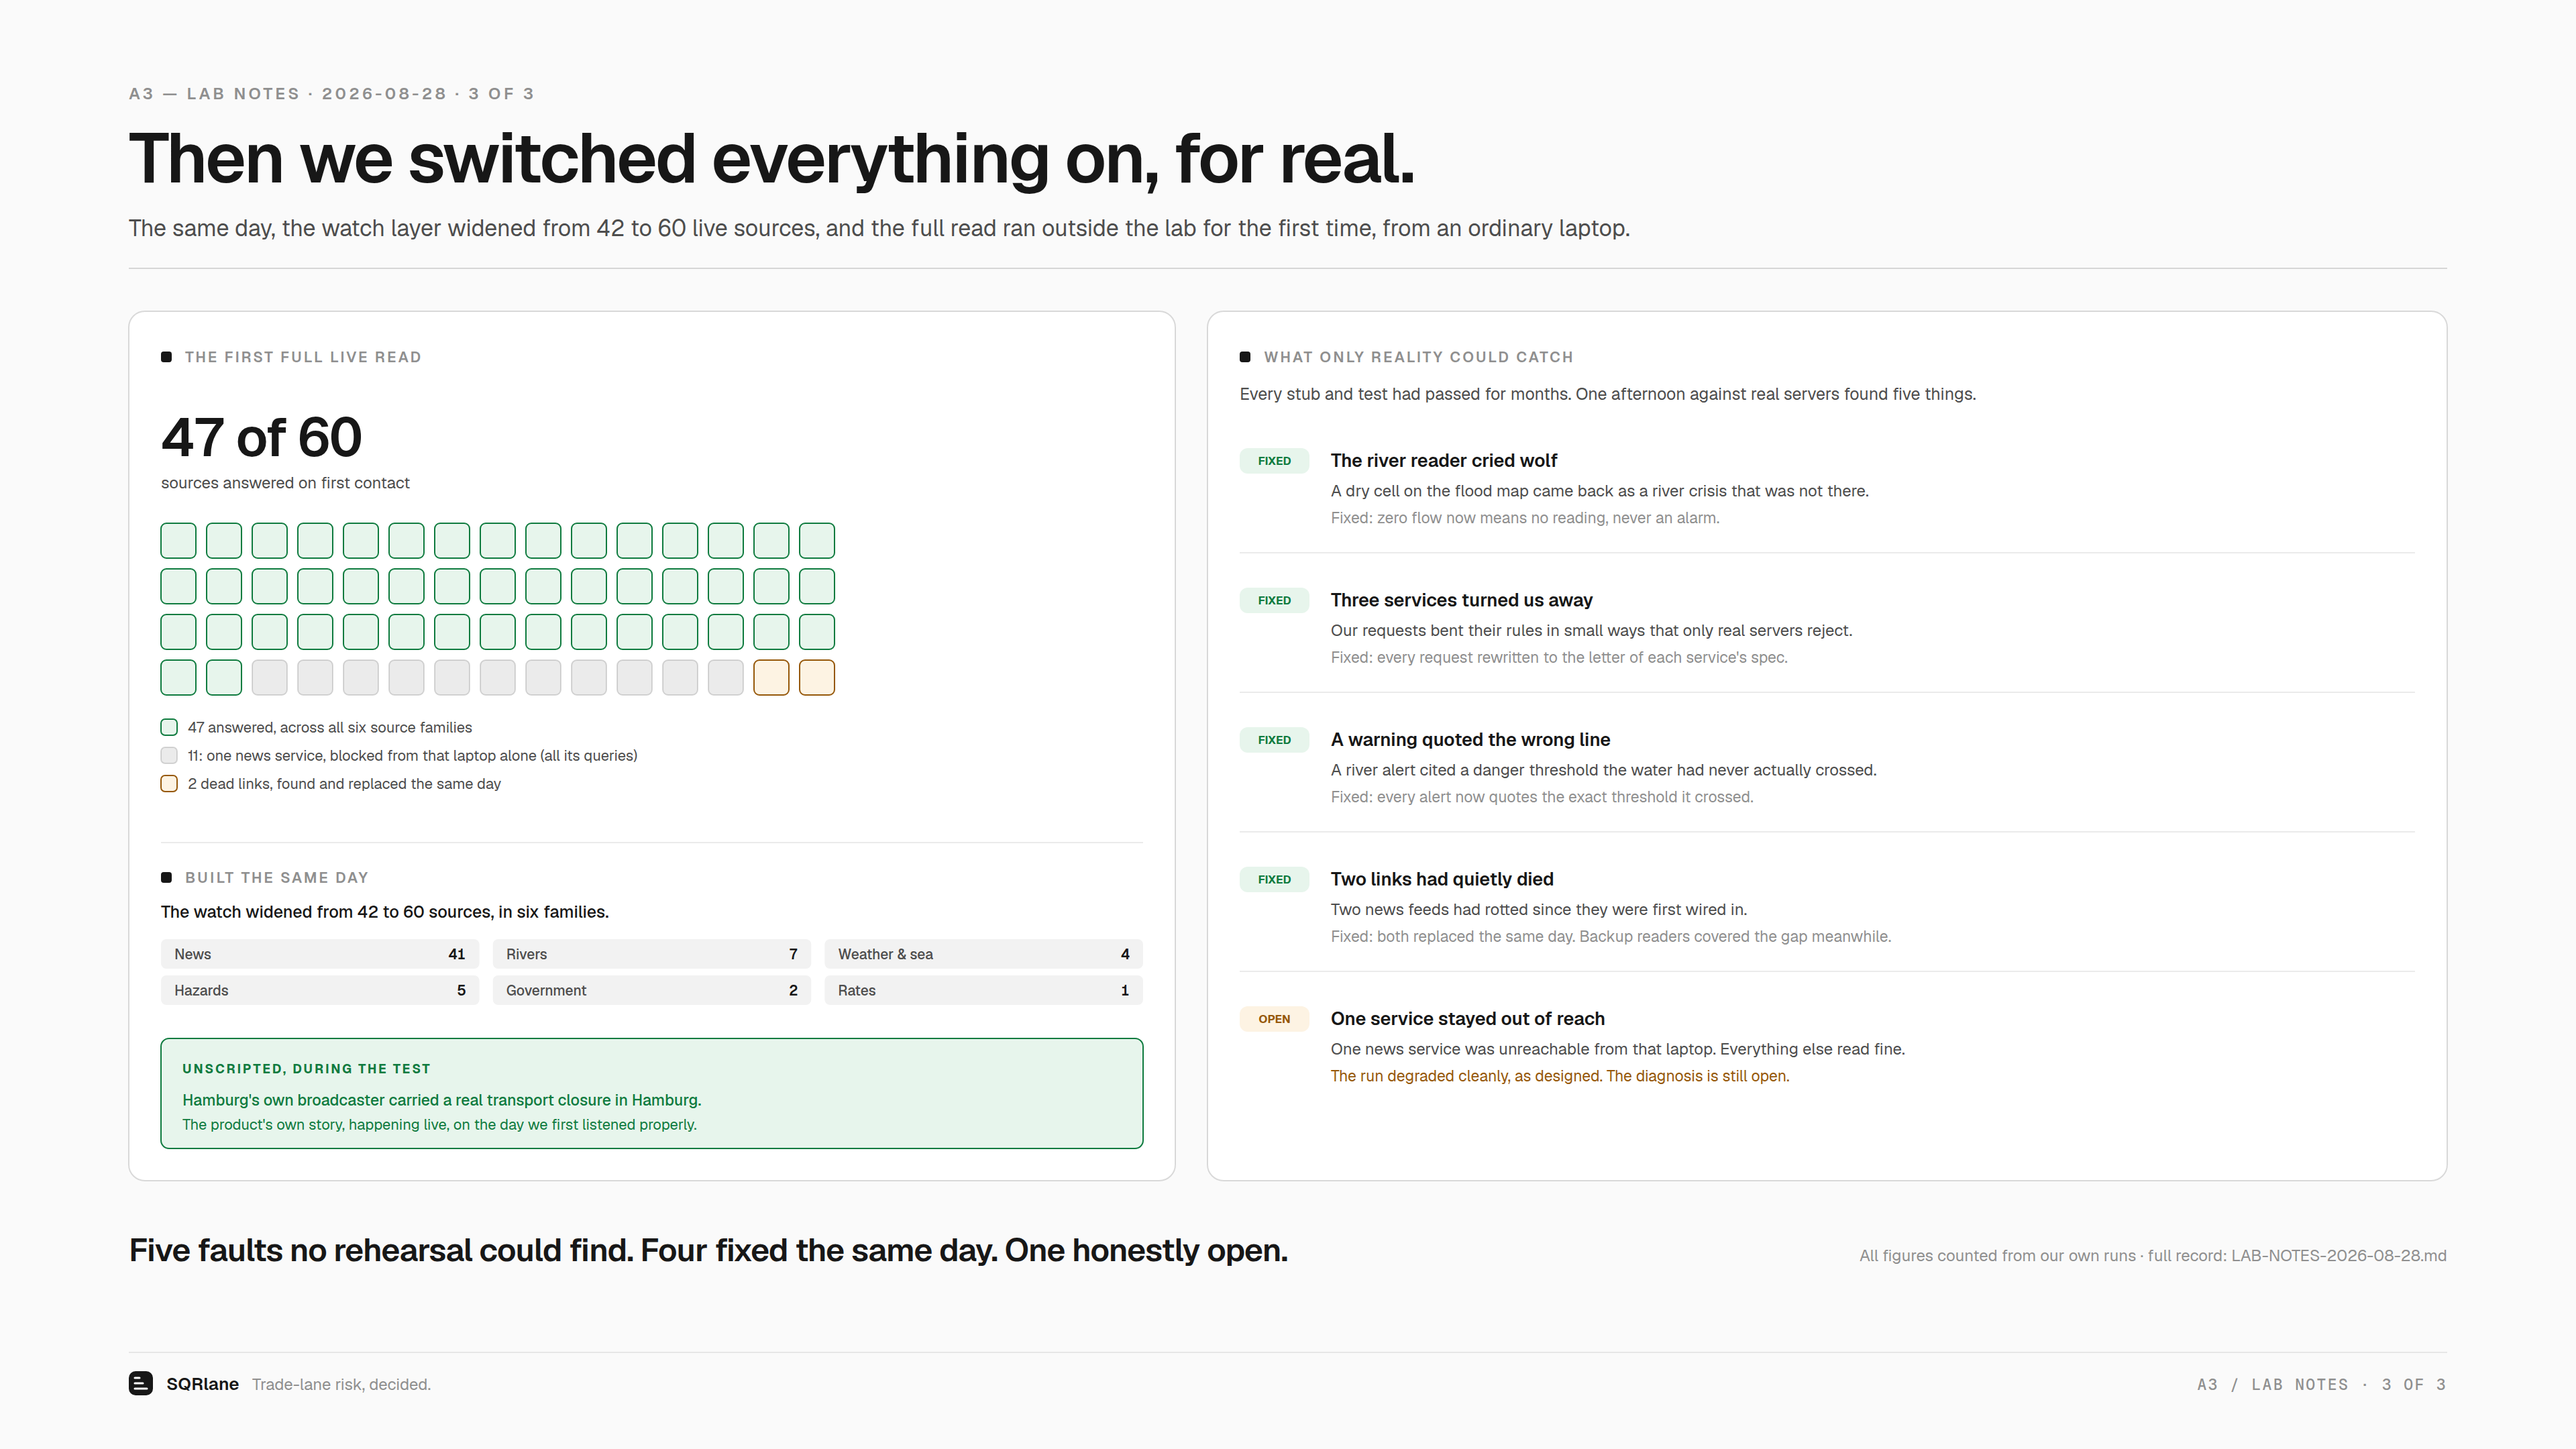
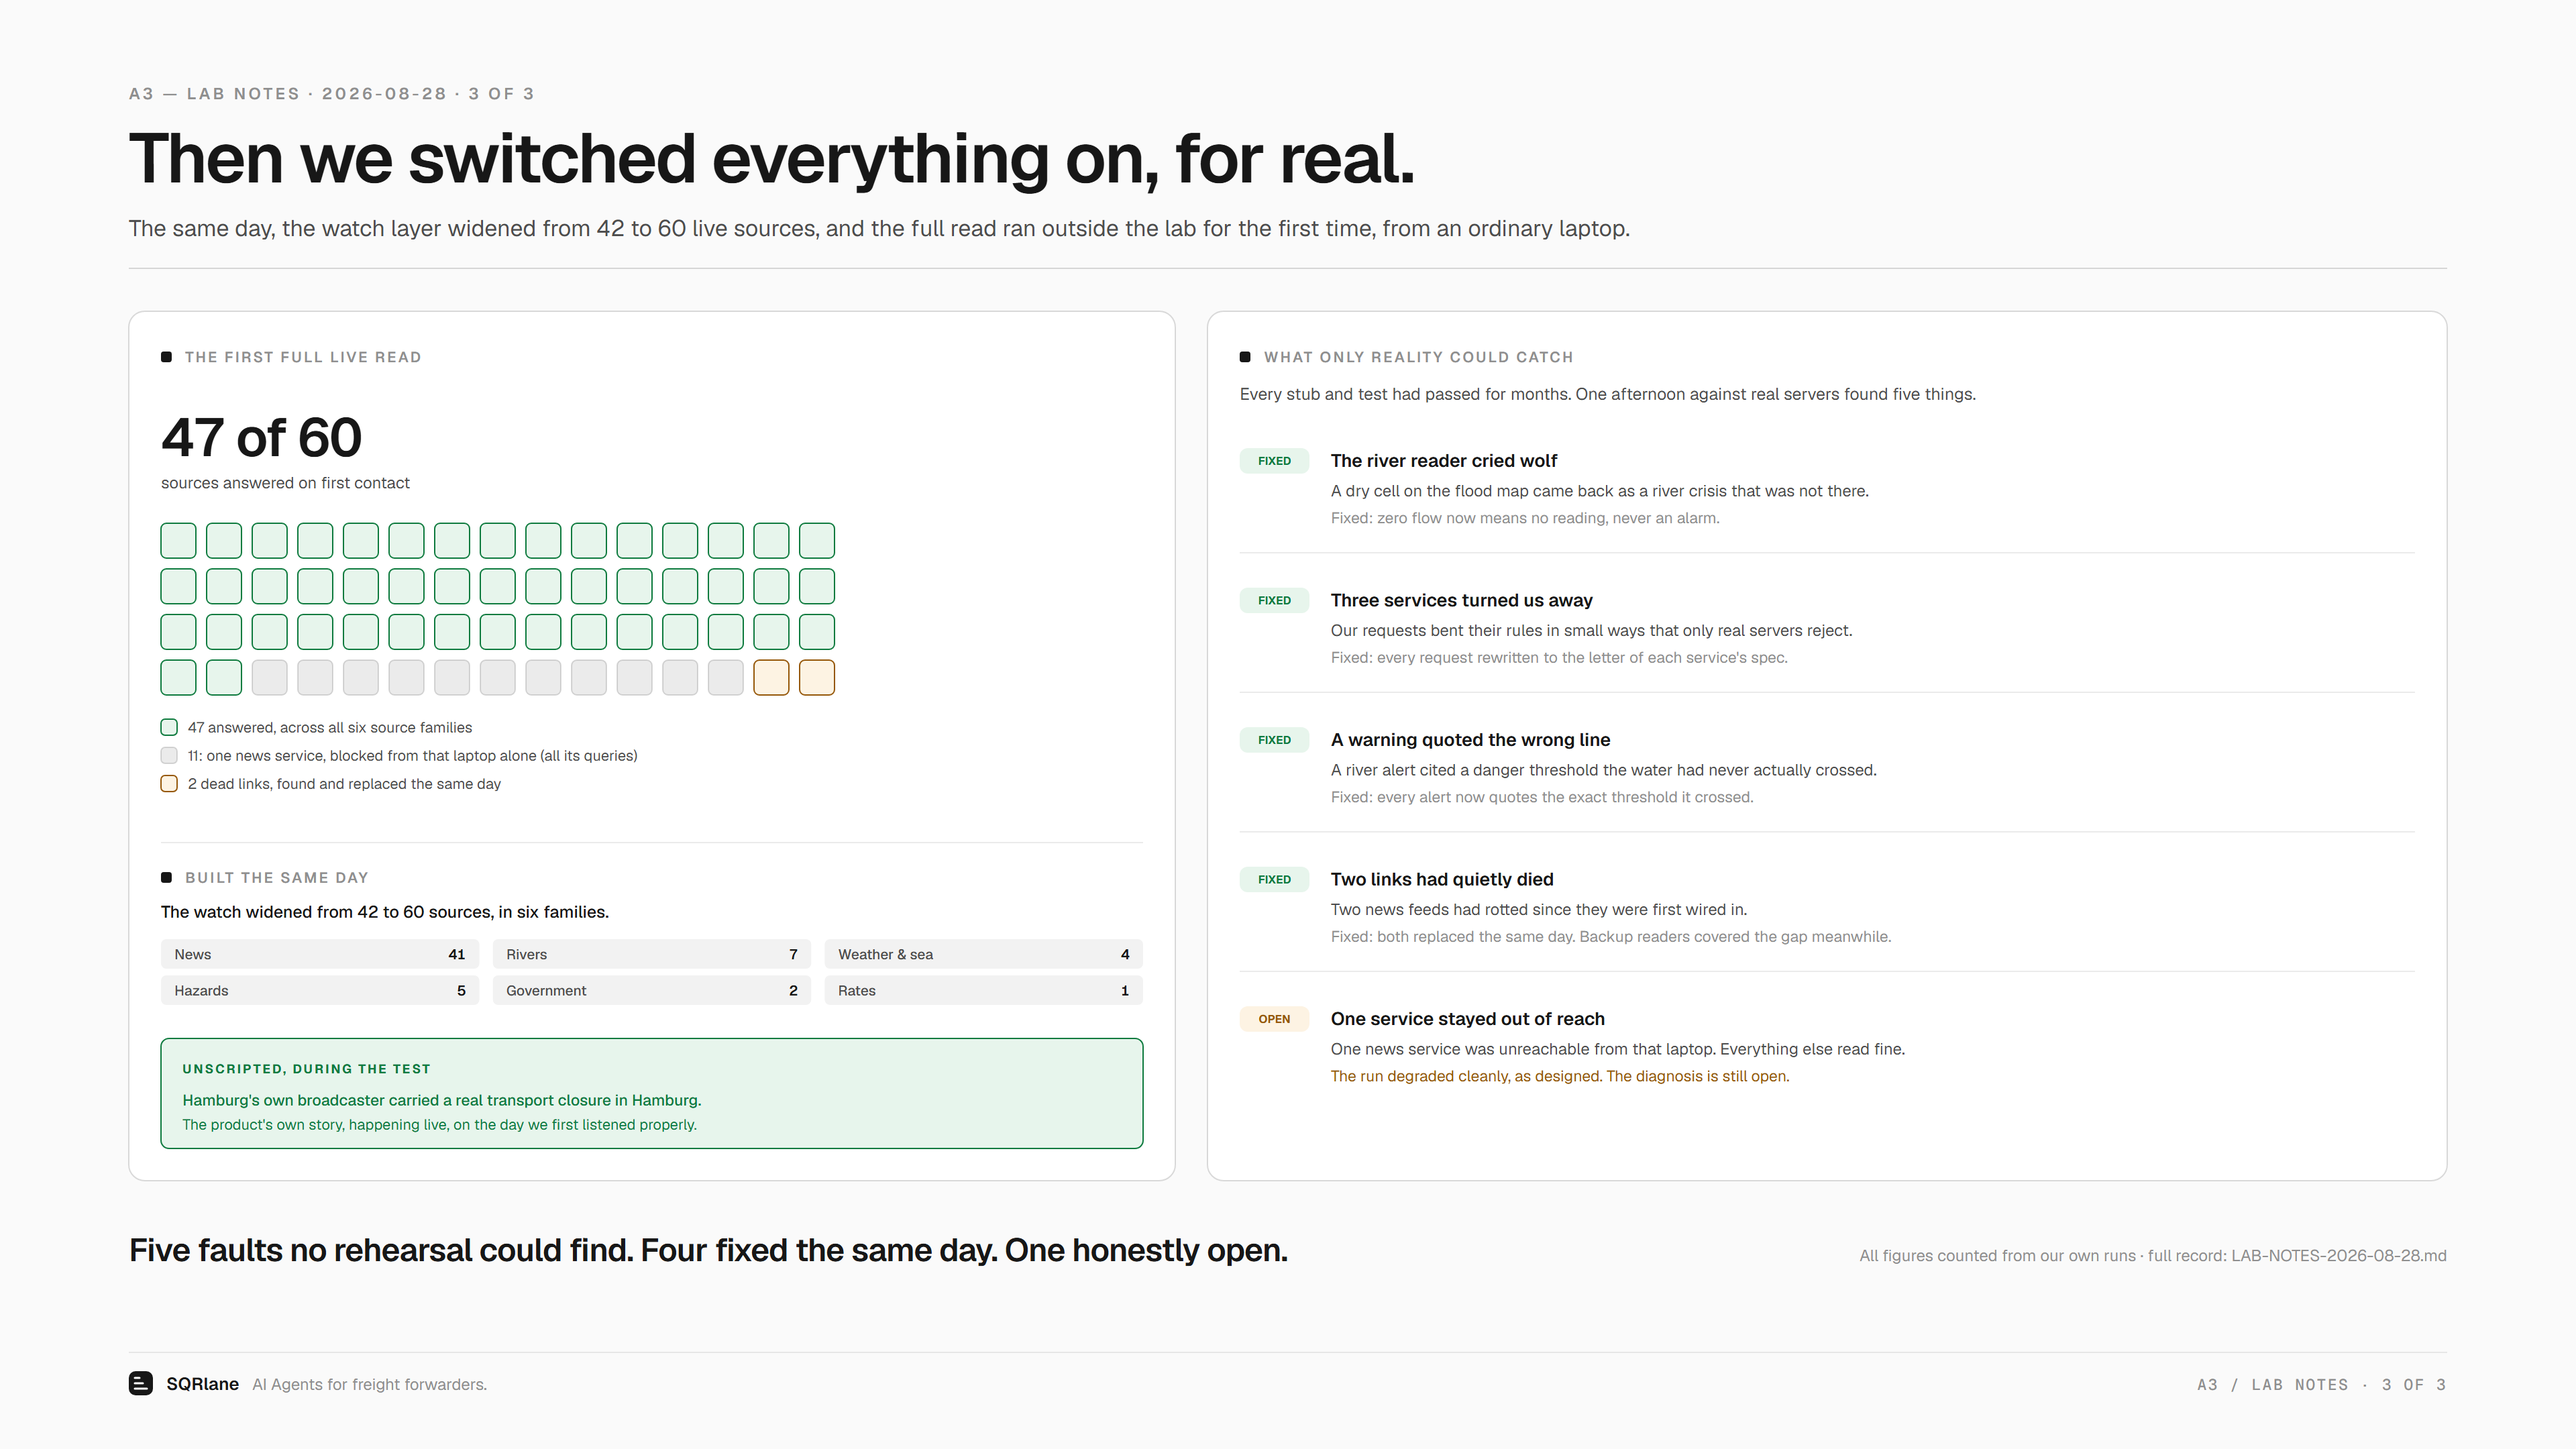
Rebuild the deck on the new tagline, and stop render.py failing silently
The previous commit said deck/ was left alone. That was wrong - deckkit.py
and CONTENT.md were in it, so the deck's source said "forwarders" while its
ten built SVGs still said "enterprises". This finishes the job: all ten SVGs
rebuilt from the build scripts, all ten PNG previews re-rendered, footers
read as they should on every slide.

Rendering them turned up why the previews could drift in the first place.
render.py passed --screenshot a relative path and then checked only that the
output existed. Chrome exits 0 when it cannot write there, so with a preview
already on disk the run looked clean: PIL re-cropped and re-saved the old
image, the mtime moved, and git showed a modified file with unchanged
pixels. Every render was a no-op that reported success.

That had been happening for a while. The previews committed before this
change were showing "Trade-lane risk, decided." - a tagline the deck stopped
using around ten commits ago, two taglines back. Nobody could have seen it:
the tool said it had rendered.

Two fixes, both platform-neutral:

- --screenshot now gets an absolute path, which is what Chrome actually
  needs;
- the guard tests that Chrome wrote the file ON THIS RUN, by mtime.
  os.path.exists cannot catch this and never could. Verified by stubbing in
  a "chrome" that exits 0 writing nothing: the guard fires and leaves the
  stale preview untouched instead of laundering it into a fresh-looking
  commit.
[…]

Changed region(s): [[0.0938, 0.9306, 0.1875, 0.9616]]

diff --git a/deck/render.py b/deck/render.py
@@ -1,13 +1,14 @@
 #!/usr/bin/env python3
 """Render a deck SVG to PNG. Chromium's headless viewport is 87px shorter than
 --window-size, so we over-size the window and crop back to the exact slide box."""
-import subprocess, sys, pathlib, tempfile
+import subprocess, sys, pathlib, tempfile, time
 from PIL import Image
 
 CHROME = "/opt/pw-browsers/chromium-1194/chrome-linux/chrome"
 W, H, CHROME_GUTTER = 1920, 1080, 87
 
 def render(svg: pathlib.Path, out: pathlib.Path, scale: int = 2):
+    t0 = time.time()
     with tempfile.TemporaryDirectory() as td:
         page = pathlib.Path(td) / "p.html"
         page.write_text(
@@ -15,11 +16,21 @@ def render(svg: pathlib.Path, out: pathlib.Path, scale: int = 2):
             '<style>html,body{margin:0;padding:0;background:#fff;overflow:hidden}'
             f'img{{display:block;width:{W}px;height:{H}px}}</style>'
             f'<img src="{svg.resolve().as_uri()}">')
-        subprocess.run([CHROME, "--headless", "--no-sandbox", "--disable-gpu",
+        r = subprocess.run([CHROME, "--headless", "--no-sandbox", "--disable-gpu",
                         "--hide-scrollbars", f"--force-device-scale-factor={scale}",
                         f"--window-size={W},{H + CHROME_GUTTER}",
-                        f"--screenshot={out}", str(page)],
-                       capture_output=True, check=True)
+                        f"--screenshot={out.resolve()}", str(page)],
+                       capture_output=True)
+        # Chrome must have written the file ON THIS RUN. It exits 0 having
+        # written nothing if the screenshot path is not writable - and with a
+        # preview already sitting there, PIL then re-crops and re-saves the OLD
+        # image, so the run looks successful, the mtime updates, and git shows
+        # a modified file. That is how these previews went ten commits stale
+        # carrying a tagline the deck had already stopped using. An mtime test
+        # is what catches it; os.path.exists cannot.
+        if not out.exists() or out.stat().st_mtime < t0:
+            raise SystemExit("chrome wrote no screenshot for %s\n%s"
+                             % (svg.name, r.stderr.decode(errors="replace")[:500]))
     im = Image.open(out).crop((0, 0, W * scale, H * scale))
     im.save(out)
     return im.size
